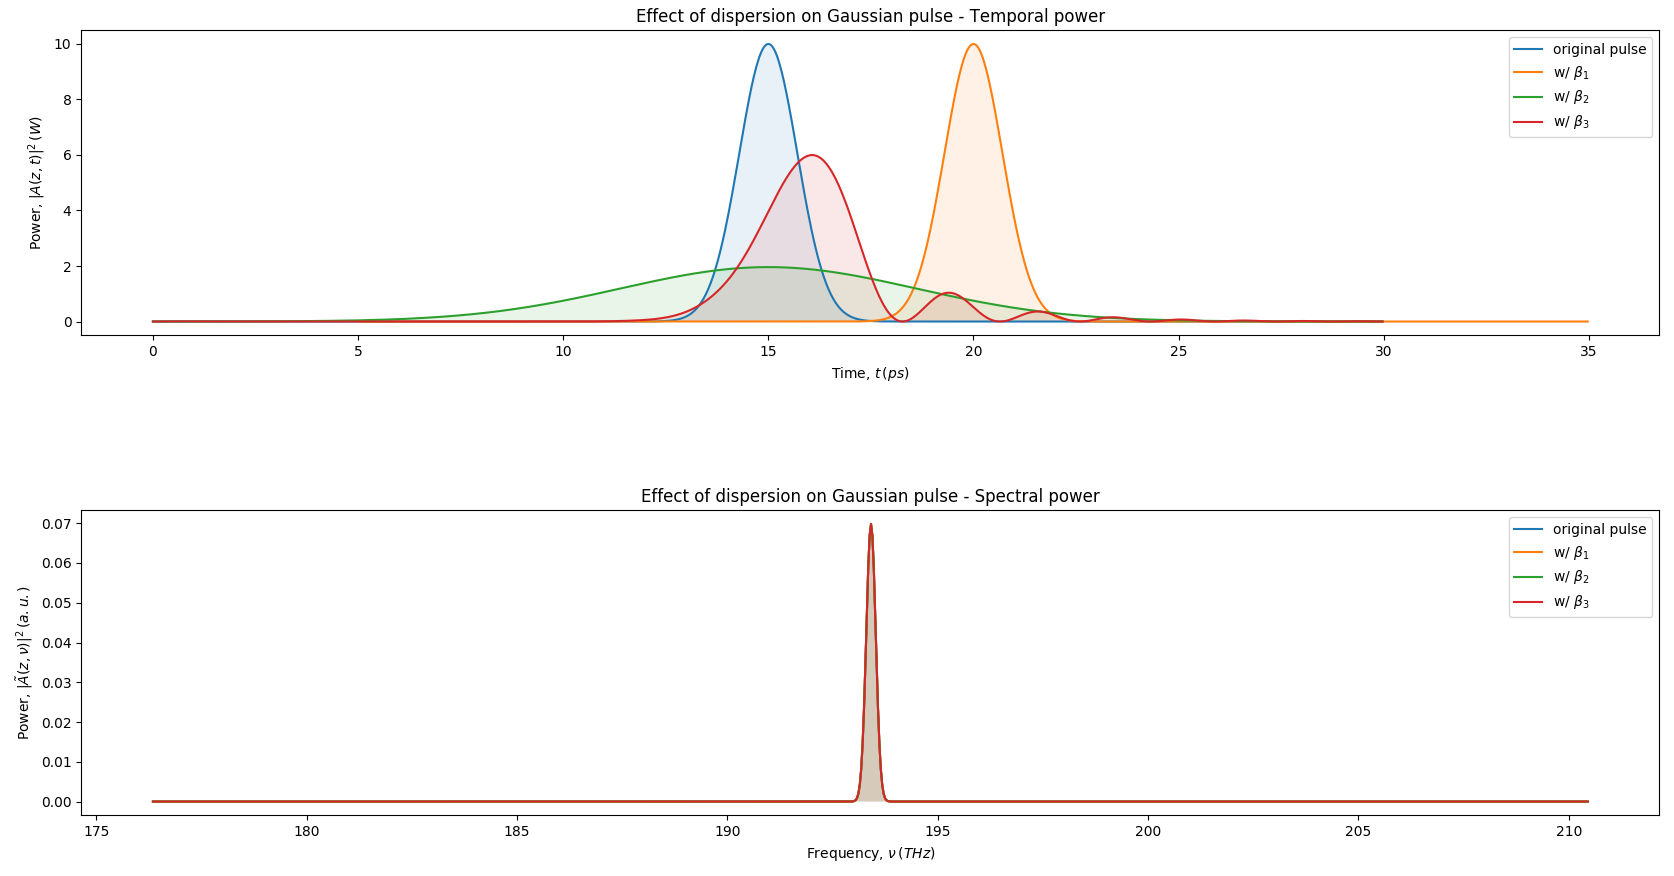
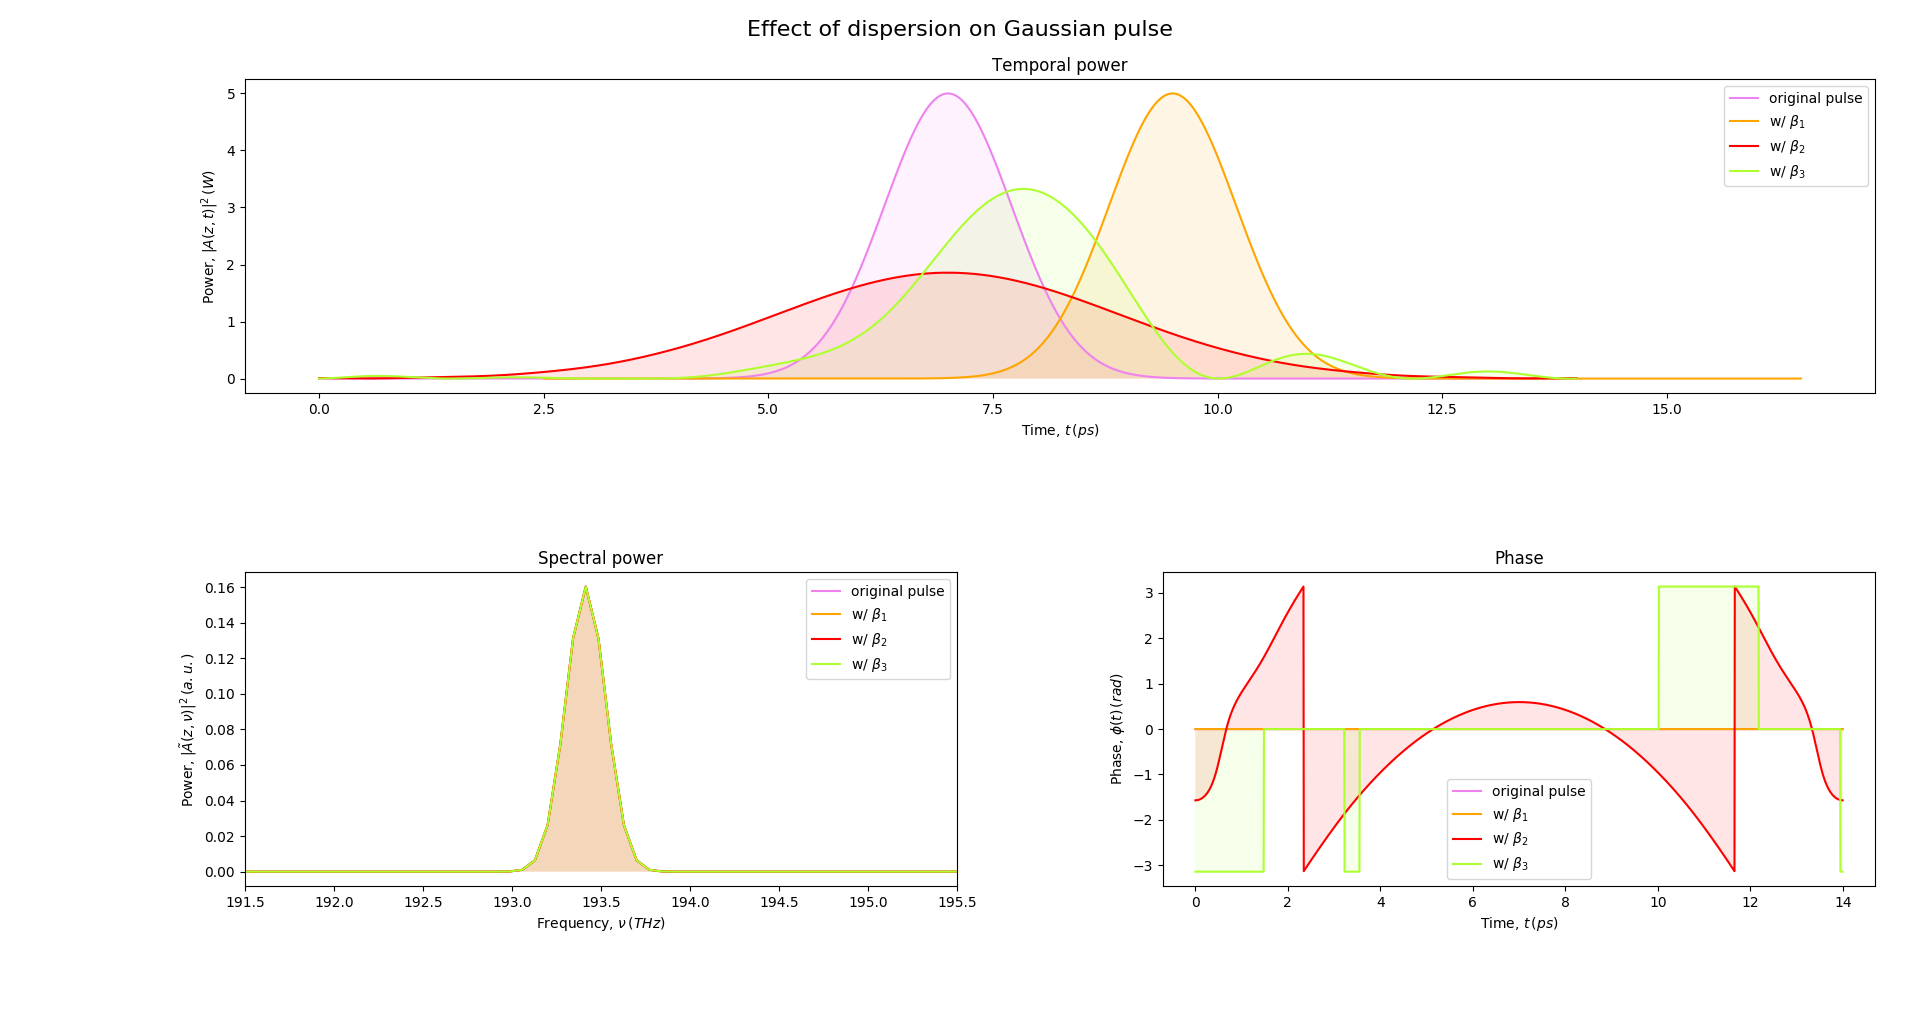
upgrading examples

diff --git a/examples/fiber_effects/disp.py b/examples/fiber_effects/disp.py
@@ -1,13 +1,13 @@
 from optcom import *
 
-domain = Domain(samples_per_bit=1024, bit_width=30.0)
+domain = Domain(samples_per_bit=2048, bit_width=14.0)
 
 lt = Layout(domain)
-pulse = Gaussian(channels=1, peak_power=[10.0], width=[1.0],
+pulse = Gaussian(channels=1, peak_power=[5.0], width=[1.0],
                  center_lambda=[1550.0])
 
-beta  = [[.0, 1.0, .0, .0], [.0, .0, 1.0, .0], [.0, .0, .0, 1.0]]
-steps = int(1e3)
+beta  = [[.0, 0.5, .0, .0], [.0, .0, 0.5, .0], [.0, .0, .0, 0.75]]
+steps = int(1e5)
 
 x_datas = []
 y_datas = []
@@ -32,7 +32,7 @@ for i in range(len(beta)):
     x_datas.append(fiber.fields[0].nu)
     y_datas.append(spectral_power(fiber.fields[1].channels))
     x_datas.append(fiber.fields[0].time)
-    y_datas.append(phase(fiber.fields[1].channels))
+    y_datas.append(phase(fiber.fields[1].channels, False))
 
 
 x_labels = ['t', 'nu', 't']
@@ -46,7 +46,9 @@ for i in range(len(beta)):
     plot_groups.extend([0,1,2])
     for j in range(3):
         plot_labels.append(r'w/ $\beta_{}$'.format(i+1))
+x_ranges = [None, (191.5, 195.5), None]
 
 plot(x_datas, y_datas, x_labels=x_labels, y_labels=y_labels,
-     plot_titles=plot_titles, plot_groups=plot_groups,
+     x_ranges=x_ranges, plot_titles=plot_titles, plot_groups=plot_groups,
      plot_labels=plot_labels, fig_title=fig_title, opacity=0.1)
+#     filename="./examples/fiber_effects/images/disp_effect.png")

diff --git a/examples/fiber_effects/ss.py b/examples/fiber_effects/ss.py
@@ -1,6 +1,6 @@
 from optcom import *
 
-domain = Domain(samples_per_bit=1024, bit_width=3.0)
+domain = Domain(samples_per_bit=1024, bit_width=2.0)
 
 lt = Layout(domain)
 pulse = Gaussian(channels=1, peak_power=[5.0], width=[0.2],
@@ -12,9 +12,9 @@ steps = int(1e4)
 x_datas = []
 y_datas = []
 
-fiber = Fiber(length=5.0, method="ssfm_symmetric",
-              gamma=gamma, nl_approx=True, ATT=False, DISP=False,
-              SPM=False, SS=True, RS=False, steps=steps, medium='sio2',
+fiber = Fiber(length=5.0, method="ssfm_symmetric", gamma=gamma,
+              nl_approx=True, ATT=False, DISP=False, SPM=False, SS=True,
+              RS=False, steps=steps, medium='sio2',
               save=True)
 
 lt.link((pulse[0], fiber[0]))
@@ -39,8 +39,10 @@ fig_title = "Effect of self-steepening on Gaussian pulse"
 
 plot_groups = [0,0,1,1,2,2]
 plot_labels = 3 * ['original pulse', 'w/ self-steepening']
+x_ranges = [None, (182., 205.), None]
 
 
 plot(x_datas, y_datas, x_labels=x_labels, y_labels=y_labels,
-     plot_titles=plot_titles, plot_groups=plot_groups,
-     plot_labels=plot_labels, fig_title=fig_title, opacity=0.1)
+     x_ranges=x_ranges, plot_titles=plot_titles, plot_groups=plot_groups,
+     plot_labels=plot_labels, fig_title=fig_title, opacity=0.1,
+     filename="./examples/fiber_effects/images/ss_effect.png")

diff --git a/examples/fiber_effects/spm.py b/examples/fiber_effects/spm.py
@@ -16,9 +16,9 @@ length = [0.5, 2.5, 5.0]
 
 for i in range(len(length)):
 
-    fiber = Fiber(length=length[i], method="ssfm_symmetric",
-                  gamma=gamma, nl_approx=True, ATT=False, DISP=False,
-                  SPM=True, SS=False, RS=False, steps=steps, medium='sio2',
+    fiber = Fiber(length=length[i], method="ssfm_symmetric", gamma=gamma,
+                  nl_approx=True, ATT=False, DISP=False, SPM=True, SS=False,
+                  RS=False, steps=steps, medium='sio2',
                   save=True)
 
     lt.link((pulse[0], fiber[0]))
@@ -49,8 +49,9 @@ for i in range(len(length)):
     plot_groups.extend([0,1,2])
     for j in range(3):
         plot_labels.append('w/ SPM - {} km'.format(length[i]))
-
+x_ranges = [None, (6.5, 8.5), (6.5, 8.5)]
 
 plot(x_datas, y_datas, x_labels=x_labels, y_labels=y_labels,
-     plot_titles=plot_titles, plot_groups=plot_groups,
-     plot_labels=plot_labels, fig_title=fig_title, opacity=0.1)
+     x_ranges=x_ranges, plot_titles=plot_titles, plot_groups=plot_groups,
+     plot_labels=plot_labels, fig_title=fig_title, opacity=0.1,
+     filename="./examples/fiber_effects/images/spm_effect.png")

diff --git a/examples/fiber_effects/att.py b/examples/fiber_effects/att.py
@@ -1,13 +1,13 @@
 from optcom import *
 
-domain = Domain(samples_per_bit=1024, bit_width=3.0)
+domain = Domain(samples_per_bit=512, bit_width=2.0)
 
 lt = Layout(domain)
 pulse = Gaussian(channels=1, peak_power=[5.0], width=[0.2],
                  center_lambda=[1550.0])
 
 alpha = 0.046
-steps = int(1e3)
+steps = int(1e1)
 x_datas = []
 y_datas = []
 
@@ -37,9 +37,10 @@ fig_title = "Effect of attenuation on Gaussian pulse"
 
 plot_groups = [0,0,1,1,2,2]
 plot_labels = 3 * ['original pulse', 'w/ attenuation']
+x_ranges = [None, (182., 205.), None]
 
 
 plot(x_datas, y_datas, x_labels=x_labels, y_labels=y_labels,
-     plot_titles=plot_titles, plot_groups=plot_groups,
-     plot_labels=plot_labels, fig_title=fig_title, opacity=0.1)#,
-     #filename="./examples/fiber_effects/images/att_effect.png")
+     x_ranges=x_ranges, plot_titles=plot_titles, plot_groups=plot_groups,
+     plot_labels=plot_labels, fig_title=fig_title, opacity=0.1,
+     filename="./examples/fiber_effects/images/att_effect.png")

diff --git a/examples/fiber_effects/disp_spm.py b/examples/fiber_effects/disp_spm.py
@@ -9,11 +9,11 @@ pulse = Gaussian(channels=1, peak_power=[power], width=[width],
                  center_lambda=[1550.0])
 beta_2 = 20.0
 beta = [[.0, .0, beta_2], [.0, .0, -beta_2]]
-steps = int(1e3)
+steps = int(1e4)
 
 #N^2 = L_D / L_{NL} where L_{NL} = 1 / (\gamma * power)
 L_D = calc_dispersion_length(width, beta_2)
-N_2 = 3.0
+N_2 = 0.03
 gamma = N_2 / (L_D * power)
 
 x_datas = []
@@ -51,8 +51,10 @@ plot_groups = 3 * [0,1,2]
 plot_labels = 3 * ['original pulse']
 plot_labels.extend(3* [r'w/ $\beta_2 > 0$'])
 plot_labels.extend(3 *[r'w/ $\beta_2 < 0$'])
+x_ranges = [None, (191.5, 195.5), None]
 
 
 plot(x_datas, y_datas, x_labels=x_labels, y_labels=y_labels,
-     plot_titles=plot_titles, plot_groups=plot_groups,
-     plot_labels=plot_labels, fig_title=fig_title, opacity=0.1)
+     x_ranges=x_ranges, plot_titles=plot_titles, plot_groups=plot_groups,
+     plot_labels=plot_labels, fig_title=fig_title, opacity=0.1,
+     filename="./examples/fiber_effects/images/disp_spm_effect_n2_0_03.png")

diff --git a/optcom/utils/plot.py b/optcom/utils/plot.py
@@ -57,7 +57,7 @@ linestyles = ['solid', 'dotted', 'dashed', 'dashdot', (0, (1, 10)), (0, (1, 1)),
 
 '''
 # For color, see https://matplotlib.org/examples/color/named_colors.html
-linecolors = ['orange', 'red', 'greenyellow' ,'violet', 'silver', 'brown',
+linecolors = ['violet', 'orange', 'red', 'greenyellow', 'silver', 'brown',
               'pink', 'gray', 'black', 'marroon', 'blue', 'navy', 'gold',
               'cyan', 'palegreen', 'deepskyblue', 'lime',]
 
@@ -166,7 +166,7 @@ def plot(x_datas: List[Array[float]], y_datas: List[Array[float]],
          resolution: Tuple[float, float] = (1920., 1080.)) -> None:
 
     # N.B. if y_datas comes from field, np.ndarray is multidim
-    # initializing -----------------------------------------------------
+    # Initializing -----------------------------------------------------
     plt.clf()
     # Managing x and y labels ------------------------------------------
     x_labels = check_xy_labels(x_labels, xy_labels)

diff --git a/examples/fiber_effects/rs.py b/examples/fiber_effects/rs.py
@@ -39,11 +39,13 @@ y_datas.append(phase(fiber.fields[1].channels))
 x_labels = ['nu', 't', 't']
 y_labels = ['P_nu', 'P_t', 'phi']
 plot_titles = ["Spectral power", "Temporal power", "Phase"]
-fig_title = "Effect of raman scattering on Gaussian pulse"
+fig_title = "Effect of Raman scattering on Gaussian pulse"
 
 plot_groups = [0,0,1,1,2,2]
-plot_labels = 3 * ['original pulse', 'w/ raman scattering']
+plot_labels = 3 * ['original pulse', 'w/ Raman scattering']
+x_ranges = [None, (13.5, 16.5), (13.5, 16.5)]
 
 plot(x_datas, y_datas, x_labels=x_labels, y_labels=y_labels,
-     plot_titles=plot_titles, plot_groups=plot_groups,
-     plot_labels=plot_labels, fig_title=fig_title, opacity=0.1)
+     x_ranges=x_ranges, plot_titles=plot_titles, plot_groups=plot_groups,
+     plot_labels=plot_labels, fig_title=fig_title, opacity=0.1,
+     filename="./examples/fiber_effects/images/rs_effect.png")

diff --git a/optcom/solvers/solver.py b/optcom/solvers/solver.py
@@ -171,7 +171,6 @@ class Solver(object):
         for i in range(len(waves)):
             waves[i] = f.exp_term_non_lin(waves, i, h, waves[i])
             waves[i] = f.exp_term_lin(waves, i, h)
-            #print(waves[i])
 
         return waves
     # ==================================================================
@@ -215,11 +214,11 @@ class Solver(object):
 
         """
         h_h = 0.5 * h
-        old_waves = copy.deepcopy(waves)
+        A_L = np.zeros(waves.shape, dtype=cst.NPFT)
         for i in range(len(waves)):
-            waves[i] = f.exp_term_lin(waves, i, h_h)
+            A_L[i] = f.exp_term_lin(waves, i, h_h)
         for i in range(len(waves)):
-            waves[i] = f.exp_term_non_lin(old_waves, i, h, waves[i])
+            waves[i] = f.exp_term_non_lin(waves, i, h, A_L[i])
             waves[i] = f.exp_term_lin(waves, i, h_h)
 
         return waves

diff --git a/optcom/utils/taylor.py b/optcom/utils/taylor.py
@@ -39,14 +39,14 @@ class Taylor(object):
 
         Parameters
         ----------
-        derivative : numpy.ndarray of float
+        derivative :
             The derivatives of the function to approximate.
-        x_diff : numpy.ndarray of float
+        x_diff :
             The values of the variables.
 
         Returns
         -------
-        float
+        :
             Taylor series evaluation.
 
         Notes
